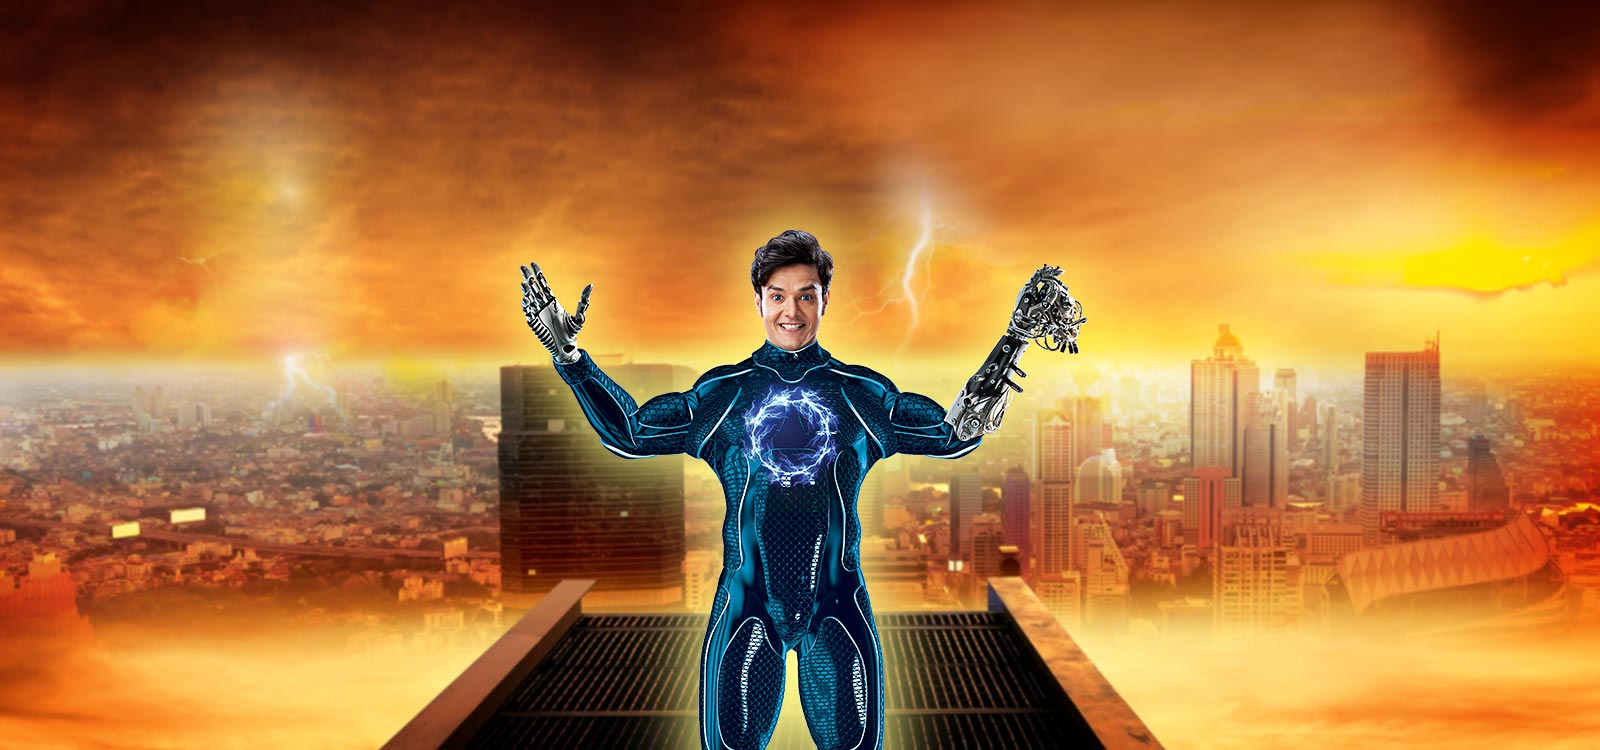
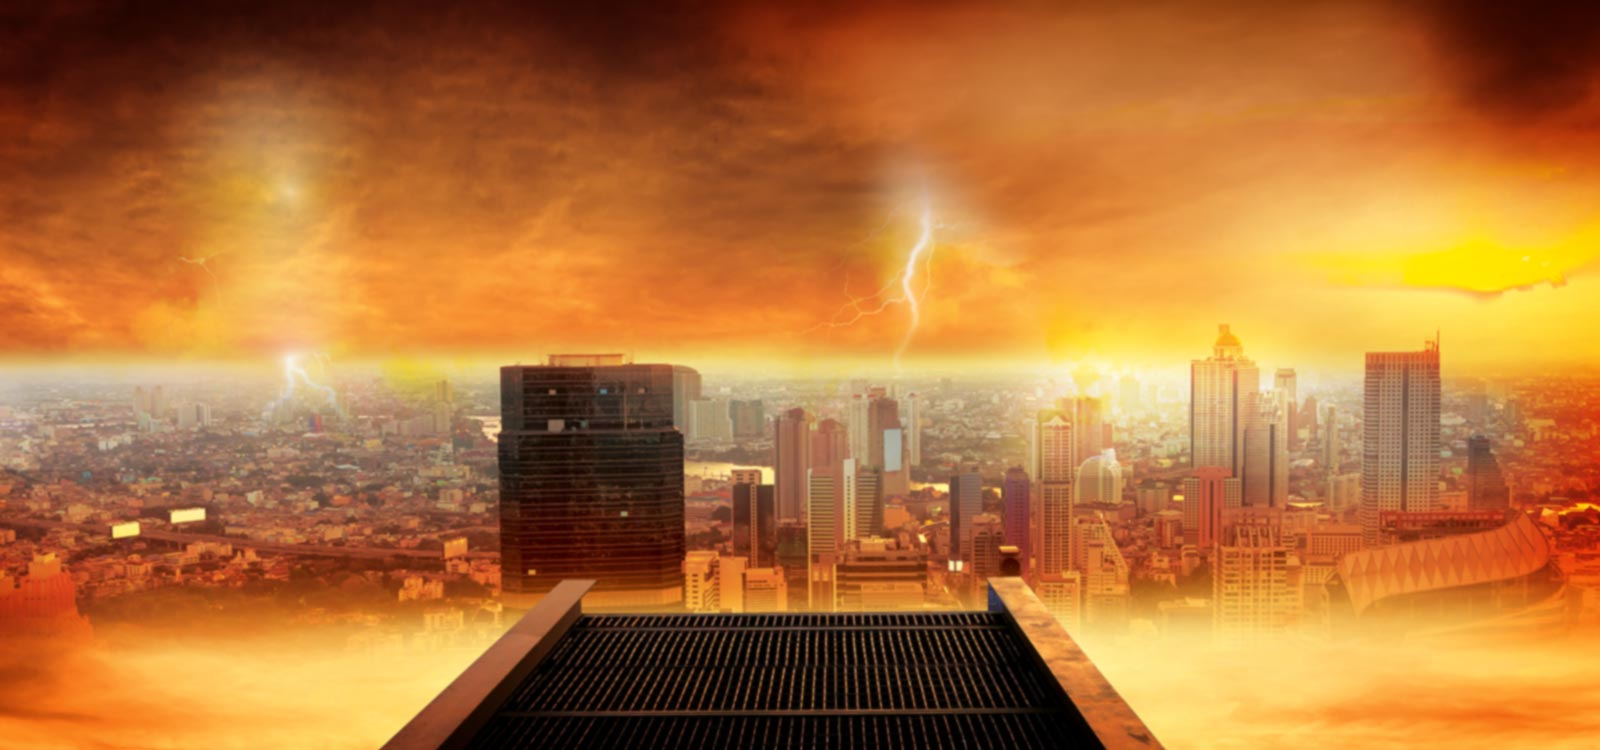
Master : Mobile design fixes

Changed region(s): [[0.2812, 0.2453, 0.6875, 1.0]]

diff --git a/css/style.css b/css/style.css
@@ -65,11 +65,15 @@ body {margin-bottom: 131px;background-image: url('../img/main-bg.jpg');backgroun
 .bottom-footer .copy-txt{color: #fff;font-size: 11px;font-family: 'Roboto-Regular';line-height: 34px;margin-bottom: 0;}
 
 
-@media(max-width: 767px){
+.lauch-date-wrpr:after{position: absolute;content: '';width: 738px;height: 604px;right: 0;bottom: 0;background-image: url('../img/yaro-desk-img.png');z-index: -1;left: 0;margin: 0 auto;}
+@media(max-width: 1199px) and (min-width: 992px){
+.lauch-date-wrpr:after{background-size: cover;width: 650px;height: 532px;}
+}
+@media(max-width: 991px){
   .lauch-date-wrpr{text-align: center;}
   .lauch-date-wrpr img{width: 215px;}
   .sticky-footer{height: 83px;}
-  body{margin-bottom: 83px;background-image: url('../img/main-bg-mob.jpg');background-position: top right;}
+  body{margin-bottom: 83px;background-image: url('../img/main-bg-mob.jpg');background-position: center;}
   .logo-wrpr{text-align: left;}
   .logo-wrpr img{width: 153px;}
   .yaro-txt img{width: 145px;margin: 0;}
@@ -81,4 +85,7 @@ body {margin-bottom: 131px;background-image: url('../img/main-bg.jpg');backgroun
   .left-main-wrpr{display: none;}
   .back-btn{font-size: 20px;width: 80px;color: #fff;border: 0;outline: none;background-color: #dc262b;height: 32px;padding: 0;text-align: center;line-height: 32px;border-radius: 0;margin-top: 10px;}
   .bottom-footer .copy-txt{font-size: 8px;}
+  .logo-wrpr{position: relative;}
+  .logo-wrpr:after {position: absolute;content: '';width: 204px;height: 282px;right: -22px;top: 2px;background-image: url('../img/yaro-mob-img.png');z-index: -1;}
+  .lauch-date-wrpr:after{display: none;}
 }

diff --git a/index.php b/index.php
@@ -30,13 +30,13 @@
         </div>
       </div>
       <div class="row">
-        <div class="col-sm-6 col-sm-push-3">
+        <div class="col-md-6 col-xs-12 col-md-push-3">
           <div class="yaro-txt">
             <img src="img/yaro-txt.png" class="img-responsive center-block">
           </div>
           <h2 class="yaro-txt-sub text-center">Pucho koi bhi sawaal, jawaab hai iske paas, <br>iske answers hai iske jaise khaas. </h2>          
         </div>
-        <div class="col-sm-3 col-sm-pull-6 left-main-wrpr">
+        <div class="col-md-3  col-xs-12 col-md-pull-6 left-main-wrpr">
           <h2 class="sabke-txt sabke-txt-left">Y.A.R.O de raha hai sabke jawaab.</h2>
           <div class="left-tp-wrpr">
             <div class="left-tp-content leftQuestion">
@@ -61,7 +61,7 @@
             </div>
           </div>
         </div>        
-        <div class="col-sm-3 right-main-wrpr">
+        <div class="col-md-3 col-xs-12 right-main-wrpr">
           <h2 class="sabke-txt">Puchiye Sawaal #SABKaYARO ke saath aur Y.A.R.O dega jawab.</h2>
           <div class="input-wrpr">
             <div class="input-header">
@@ -82,7 +82,7 @@
               <img src="img/yaro-img.png">
             </div>
           </div>
-          <div class="visible-xs clearfix">
+          <div class="visible-xs visible-sm clearfix">
             <button class="back-btn btn pull-right">Back</button>
           </div>          
         </div>
